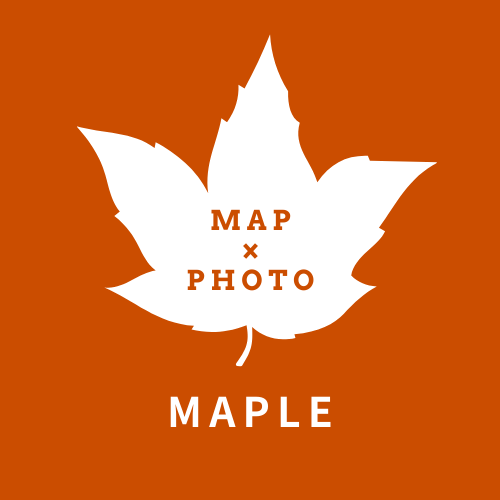
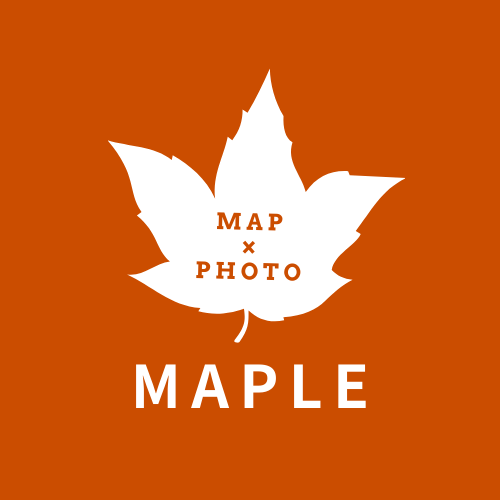
pencilIcon

Changed region(s): [[0.15, 0.06, 0.87, 0.87]]

diff --git a/frontend/src/components/post.js b/frontend/src/components/post.js
@@ -14,7 +14,7 @@ import {
   Text,
   Textarea,
   Spinner,
-  EditIcon
+  EditIcon,
 } from "@chakra-ui/react";
 import { useState, useRef } from "react";
 import { getPosition, postToServer } from "../utils";
@@ -52,24 +52,26 @@ const Post = () => {
   };
 
   return (
-    <div>
+    <div >
       <Button
-        leftIcon={<BsPencil />}
+        rightIcon={<span className="pencilIcon"><BsPencil size={25} /></span>}
+        position={"absolute"}
         color="#d47c3c"
         className="postButton"
         onClick={position}
         p={9}
         fontSize={25}
         borderRadius={50}
-        mt={"550px"}
-        ml={"70%"}
-        boxShadow={"2px 2px grey"}
+        bottom={"40px"}
+        right={"65px"}
+        // boxShadow={"2px 2px grey"}
+        boxShadow={"lg"}
         transition="0.4s"
-        _hover={{color:"white" ,bgColor:"#d47c3c" }}
+        width="20px"
+        _hover={{ color: "white", bgColor: "#d47c3c" }}
       >
-      投稿
+        
       </Button>
- 
       <Modal isOpen={isOpen} onClose={onClose}>
         <ModalOverlay />
         <ModalContent>

diff --git a/frontend/src/components/header.js b/frontend/src/components/header.js
@@ -1,6 +1,5 @@
 import "../styles/header.css";
 import MapleLogo from "../assets/MAPLE.png"
-import MapleLogo2 from "../assets/MAPLE2.png"
 
 const Header = () => {
   
@@ -8,7 +7,7 @@ const Header = () => {
     <div >
       <img
         className="Headerlogo"
-        src={MapleLogo2}
+        src={MapleLogo}
         alt="Logo"
       />
  

diff --git a/frontend/src/styles/header.css b/frontend/src/styles/header.css
@@ -5,7 +5,12 @@
   border-radius: 40px;
   margin-top: 30px;
   margin-left: 30px;
-  box-shadow: 2px 2px rgb(82, 51, 22);
+  /* box-shadow: 2px 2px rgb(82, 51, 22); */
   z-index: 1;
+  transition: 1s;
+  transform:rotateY(0deg);
 }
-
+.Headerlogo:hover{
+    transform: rotateY(360deg);
+}
+/* @media */

diff --git a/frontend/src/styles/modal_view.css b/frontend/src/styles/modal_view.css
@@ -13,3 +13,6 @@
   left: 0;
   margin: auto;
 }
+.pencilIcon{
+  transform: translateX(-4px);
+}
